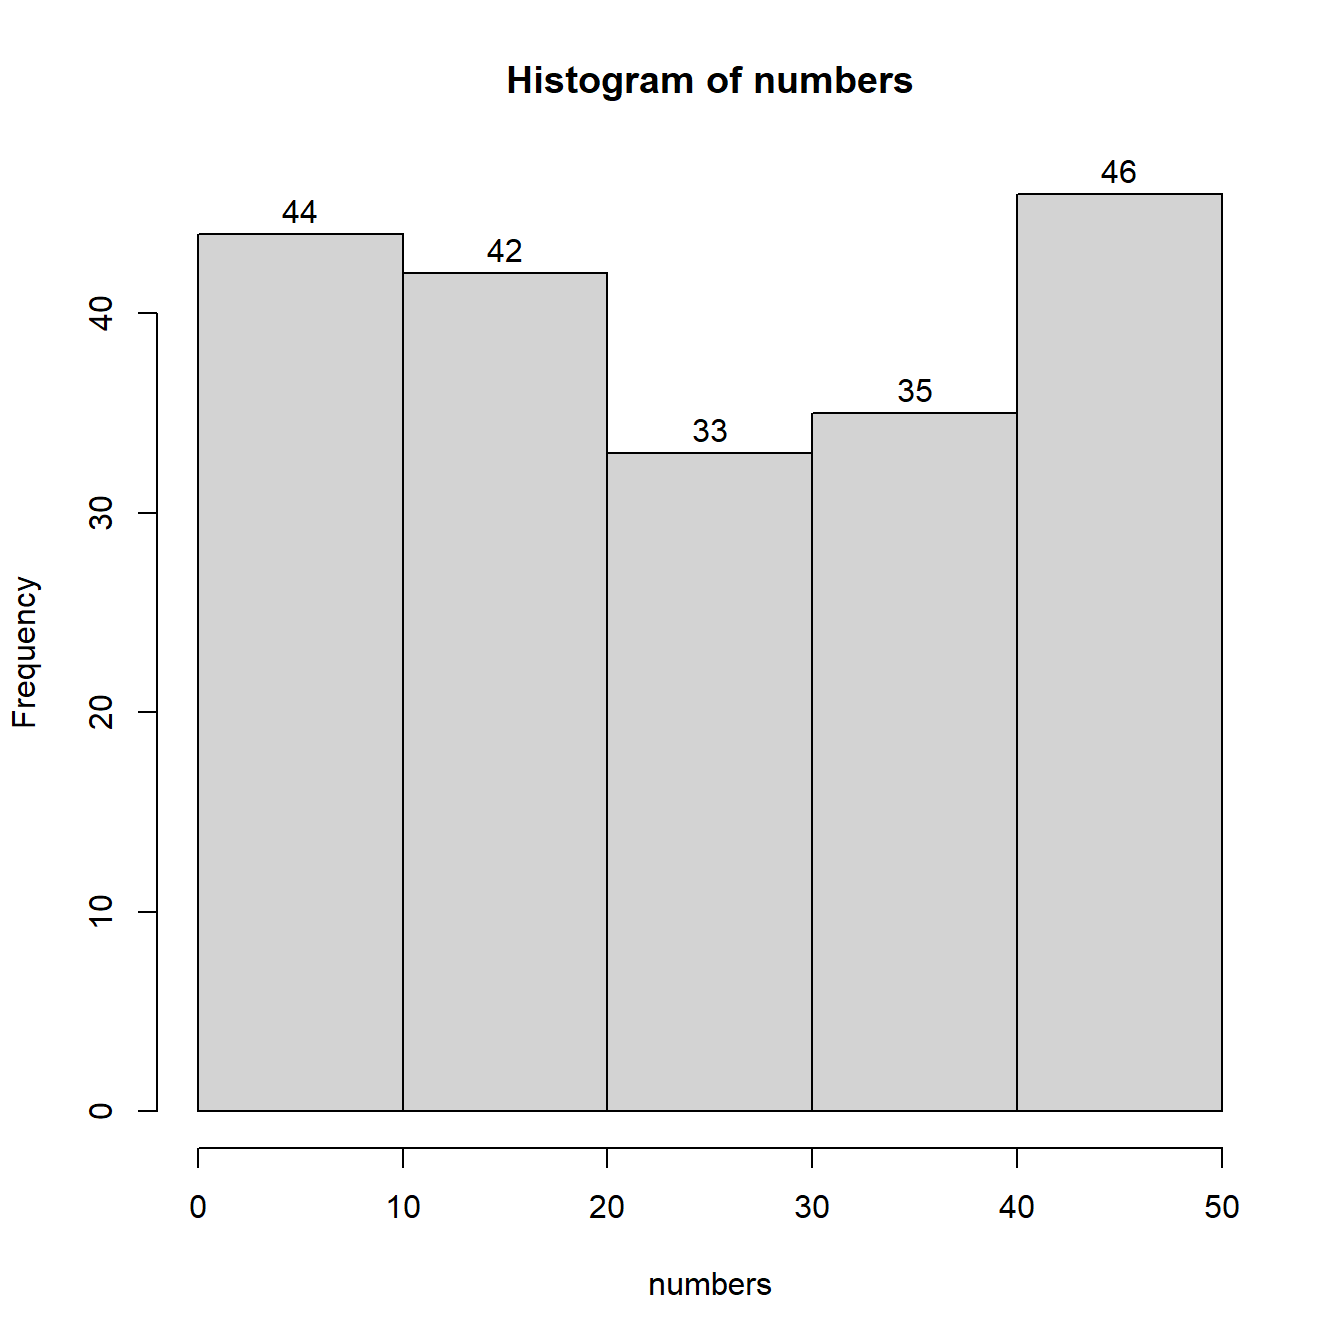
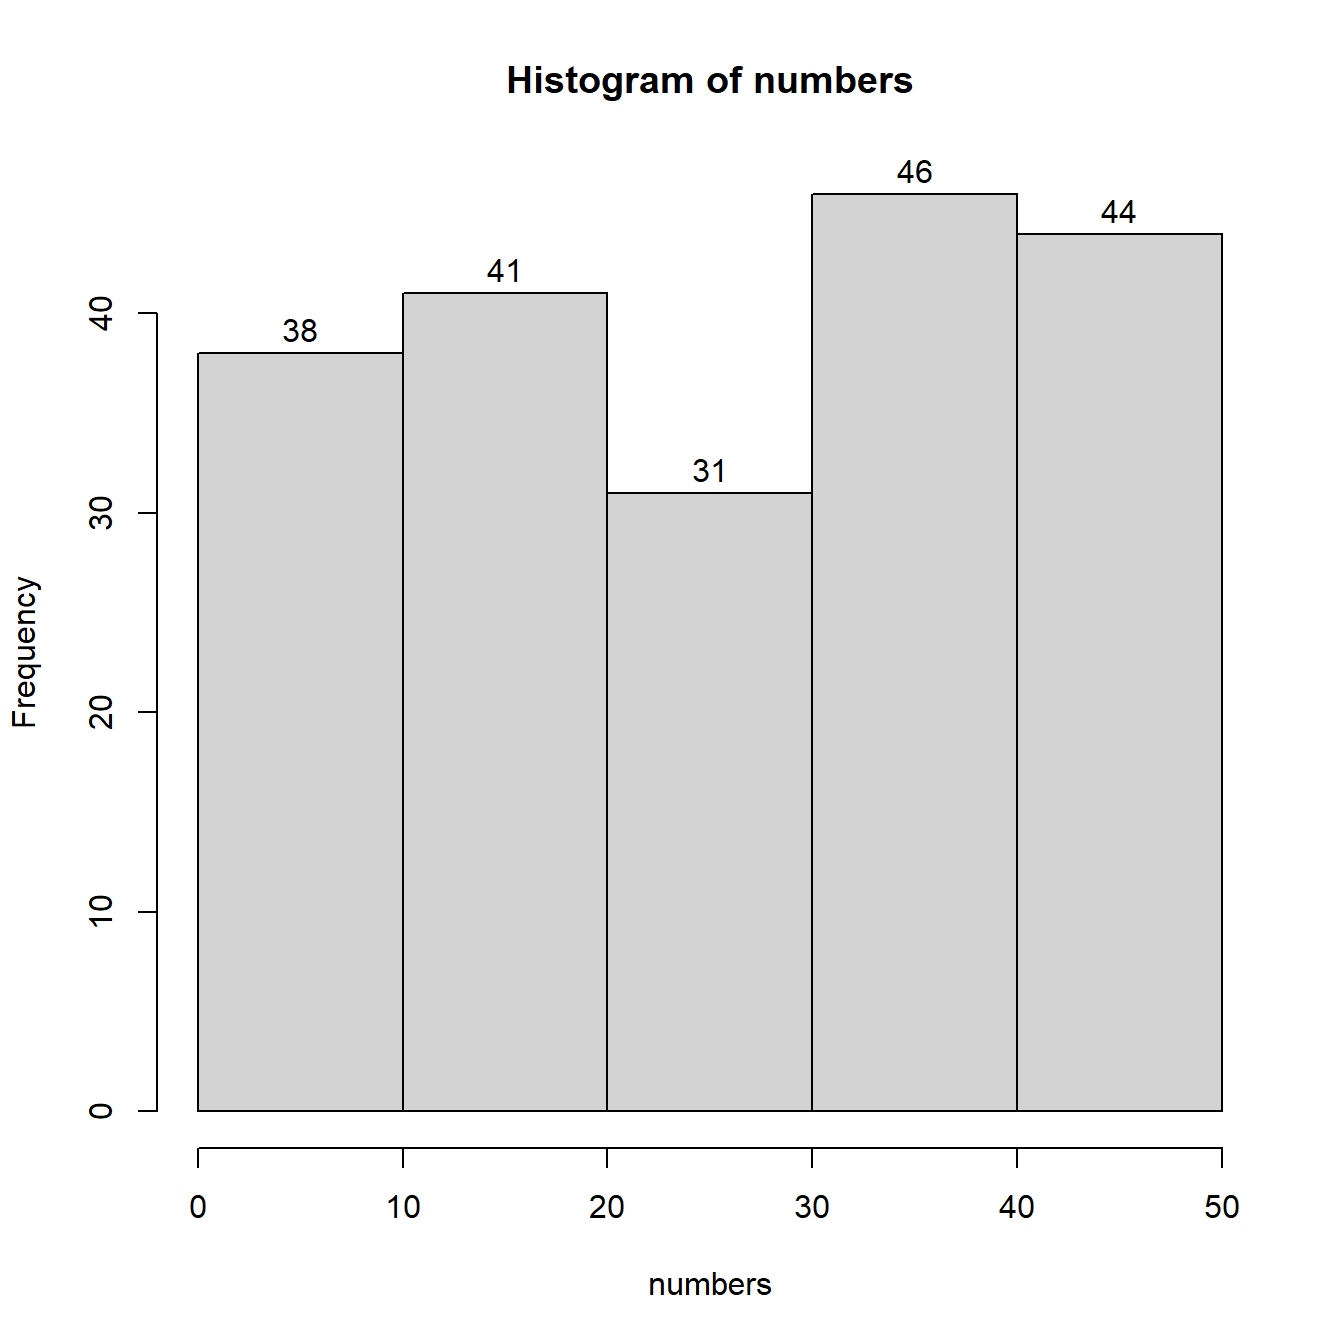
sessions updated

Changed region(s): [[0.5938, 0.125, 0.9062, 0.3125], [0.125, 0.1562, 0.4688, 0.2812], [0.4375, 0.3125, 0.625, 0.375]]

diff --git a/docs/session2.html b/docs/session2.html
@@ -24,7 +24,7 @@
 <meta name="author" content="Lazaros Gonidis" />
 
 
-<meta name="date" content="2020-10-20" />
+<meta name="date" content="2020-10-21" />
 
   <meta name="viewport" content="width=device-width, initial-scale=1" />
   <meta name="apple-mobile-web-app-capable" content="yes" />
@@ -171,12 +171,21 @@ code span.wa { color: #60a0b0; font-weight: bold; font-style: italic; } /* Warni
 <li class="chapter" data-level="4.7" data-path="session3.html"><a href="session3.html#additional-exercises-spoiler-alert-if-you-get-stuck-the-answers-are-at-the-end-of-the-pdf"><i class="fa fa-check"></i><b>4.7</b> Additional Exercises (spoiler alert: if you get stuck the answers are at the end of the pdf)</a></li>
 <li class="chapter" data-level="4.8" data-path="session3.html"><a href="session3.html#solutions-spoiler-alert"><i class="fa fa-check"></i><b>4.8</b> Solutions: SPOILER ALERT</a></li>
 </ul></li>
-<li class="chapter" data-level="5" data-path="applications.html"><a href="applications.html"><i class="fa fa-check"></i><b>5</b> Applications</a>
+<li class="chapter" data-level="5" data-path="session4.html"><a href="session4.html"><i class="fa fa-check"></i><b>5</b> Tidyverse 1</a>
 <ul>
-<li class="chapter" data-level="5.1" data-path="applications.html"><a href="applications.html#example-one"><i class="fa fa-check"></i><b>5.1</b> Example one</a></li>
-<li class="chapter" data-level="5.2" data-path="applications.html"><a href="applications.html#example-two"><i class="fa fa-check"></i><b>5.2</b> Example two</a></li>
+<li class="chapter" data-level="5.1" data-path="session4.html"><a href="session4.html#thinking-ahead"><i class="fa fa-check"></i><b>5.1</b> Thinking ahead</a></li>
+<li class="chapter" data-level="5.2" data-path="session4.html"><a href="session4.html#learning-objectives-3"><i class="fa fa-check"></i><b>5.2</b> Learning objectives</a></li>
+<li class="chapter" data-level="5.3" data-path="session4.html"><a href="session4.html#our-first-data-file"><i class="fa fa-check"></i><b>5.3</b> Our first data file</a></li>
+<li class="chapter" data-level="5.4" data-path="session4.html"><a href="session4.html#correcting-variable-types"><i class="fa fa-check"></i><b>5.4</b> Correcting Variable Types</a></li>
+<li class="chapter" data-level="5.5" data-path="session4.html"><a href="session4.html#recoding"><i class="fa fa-check"></i><b>5.5</b> Recoding</a></li>
+<li class="chapter" data-level="5.6" data-path="session4.html"><a href="session4.html#exercise-9"><i class="fa fa-check"></i><b>5.6</b> Exercise 9</a></li>
 </ul></li>
-<li class="chapter" data-level="6" data-path="final-words.html"><a href="final-words.html"><i class="fa fa-check"></i><b>6</b> Final Words</a></li>
+<li class="chapter" data-level="6" data-path="session5.html"><a href="session5.html"><i class="fa fa-check"></i><b>6</b> Tidyverse 2</a>
+<ul>
+<li class="chapter" data-level="6.1" data-path="session5.html"><a href="session5.html#reflecting-on-the-last-session"><i class="fa fa-check"></i><b>6.1</b> Reflecting on the last session</a></li>
+<li class="chapter" data-level="6.2" data-path="session5.html"><a href="session5.html#pipe-operator"><i class="fa fa-check"></i><b>6.2</b> Pipe Operator %&lt;%</a></li>
+<li class="chapter" data-level="6.3" data-path="session5.html"><a href="session5.html#exercise-10"><i class="fa fa-check"></i><b>6.3</b> Exercise 10</a></li>
+</ul></li>
 <li class="chapter" data-level="" data-path="references.html"><a href="references.html"><i class="fa fa-check"></i>References</a></li>
 <li class="divider"></li>
 <li><a href="https://github.com/rstudio/bookdown" target="blank">Published with bookdown</a></li>
@@ -269,7 +278,7 @@ We will also start working on some basic concepts of statistical exploration of 
 <span id="cb7-3"><a href="session2.html#cb7-3"></a>numbers &lt;-<span class="st"> </span><span class="kw">sample.int</span>(<span class="dv">10</span>, <span class="dv">5</span>, <span class="dt">replace =</span> <span class="ot">TRUE</span>)</span>
 <span id="cb7-4"><a href="session2.html#cb7-4"></a></span>
 <span id="cb7-5"><a href="session2.html#cb7-5"></a>numbers</span></code></pre></div>
-<p>[1] 4 4 7 8 6</p>
+<p>[1] 3 3 6 5 10</p>
 <p>As mentioned above, I used a function called <strong>sample.int()</strong>. A <strong>function</strong> in R, is a mechanism that can perform a task. In this case our function can select an integer number randomly. A function also includes two brackets (). Within these brackets we can specify our own arguments in order to be clear what we want R to do for us when this function is used.</p>
 <p>Notice the number 10, this <strong>argument</strong> instructs our function that we want to pick randomly a number between 1 and 10.</p>
 <p>Notice the second number 5, this <strong>argument</strong> instructs our function to give 5 such numbers from 1 to 10.</p>
@@ -283,14 +292,14 @@ We will also start working on some basic concepts of statistical exploration of 
 <span id="cb8-3"><a href="session2.html#cb8-3"></a><span class="co"># See how my arguments have now changed.</span></span>
 <span id="cb8-4"><a href="session2.html#cb8-4"></a>numbers &lt;-<span class="st"> </span><span class="kw">sample.int</span>(<span class="dv">50</span>, <span class="dv">200</span>, <span class="dt">replace =</span> <span class="ot">TRUE</span>)</span>
 <span id="cb8-5"><a href="session2.html#cb8-5"></a>numbers</span></code></pre></div>
-<p>[1] 4 7 44 19 47 39 2 9 4 45 10 7 50 33 41 16 20 39 33 50 2 40 20 40 19
-[26] 42 30 39 4 32 43 19 5 12 41 1 12 37 48 32 42 32 40 19 19 9 13 22 14 47
-[51] 28 10 41 9 6 36 1 26 36 46 15 17 44 44 48 49 27 18 12 9 39 8 4 23 27
-[76] 36 39 30 5 42 12 28 22 2 37 13 43 14 8 9 19 7 45 20 15 24 43 15 30 19
-[101] 29 32 16 8 16 32 48 44 40 15 33 28 3 24 7 11 36 19 49 50 34 19 21 14 10
-[126] 1 2 31 32 27 1 3 50 6 24 12 27 30 30 1 36 17 18 11 44 27 11 37 13 42
-[151] 10 42 17 25 48 44 25 47 3 26 45 13 23 43 22 28 6 49 43 30 16 38 40 37 43
-[176] 4 49 46 36 20 25 49 9 8 12 42 39 29 47 4 39 33 22 46 10 7 6 46 22 44</p>
+<p>[1] 12 4 9 4 26 16 49 5 33 35 8 18 39 26 50 33 12 20 37 37 33 8 49 39 45
+[26] 14 34 42 16 14 38 46 6 36 28 14 42 13 41 29 40 11 40 17 5 29 28 37 5 39
+[51] 40 6 31 29 3 24 21 35 26 42 15 33 12 45 14 2 50 1 11 34 50 7 25 18 6
+[76] 50 1 39 9 38 11 25 21 23 5 5 4 10 29 38 37 49 23 50 47 18 19 16 14 26
+[101] 41 17 20 5 10 39 36 7 26 47 45 32 21 45 49 11 32 5 26 44 15 36 48 48 41
+[126] 20 29 12 32 19 23 50 22 35 33 6 35 12 28 4 37 10 5 43 47 29 49 33 44 38
+[151] 19 24 46 14 8 3 45 36 42 32 28 14 31 16 12 40 14 47 14 48 19 40 4 49 48
+[176] 21 2 37 24 33 48 50 37 20 45 33 5 10 2 49 50 19 43 45 21 27 33 2 15 6</p>
 <div class="sourceCode" id="cb9"><pre class="sourceCode r"><code class="sourceCode r"><span id="cb9-1"><a href="session2.html#cb9-1"></a><span class="co"># Now we will call a new function to help us group our data.</span></span>
 <span id="cb9-2"><a href="session2.html#cb9-2"></a><span class="co"># First put them in 5 groups. The numbers in c() declare the numbers that define each group.</span></span>
 <span id="cb9-3"><a href="session2.html#cb9-3"></a></span>
@@ -299,7 +308,7 @@ We will also start working on some basic concepts of statistical exploration of 
 <span id="cb9-6"><a href="session2.html#cb9-6"></a><span class="co"># Now I can produce my frequency table using another function</span></span>
 <span id="cb9-7"><a href="session2.html#cb9-7"></a><span class="kw">summary</span>(groups)</span></code></pre></div>
 <p>(0,10] (10,20] (20,30] (30,40] (40,50]
-44 42 33 35 46</p>
+38 41 31 46 44</p>
 <div class="sourceCode" id="cb10"><pre class="sourceCode r"><code class="sourceCode r"><span id="cb10-1"><a href="session2.html#cb10-1"></a><span class="co"># We will now use a new function called hist that creates histograms.</span></span>
 <span id="cb10-2"><a href="session2.html#cb10-2"></a><span class="co"># Note that this function has to work with the original numbers</span></span>
 <span id="cb10-3"><a href="session2.html#cb10-3"></a><span class="co"># and not with the groups.</span></span>

diff --git a/docs/index.html b/docs/index.html
@@ -24,7 +24,7 @@
 <meta name="author" content="Lazaros Gonidis" />
 
 
-<meta name="date" content="2020-10-20" />
+<meta name="date" content="2020-10-21" />
 
   <meta name="viewport" content="width=device-width, initial-scale=1" />
   <meta name="apple-mobile-web-app-capable" content="yes" />
@@ -108,12 +108,21 @@
 <li class="chapter" data-level="4.7" data-path="session3.html"><a href="session3.html#additional-exercises-spoiler-alert-if-you-get-stuck-the-answers-are-at-the-end-of-the-pdf"><i class="fa fa-check"></i><b>4.7</b> Additional Exercises (spoiler alert: if you get stuck the answers are at the end of the pdf)</a></li>
 <li class="chapter" data-level="4.8" data-path="session3.html"><a href="session3.html#solutions-spoiler-alert"><i class="fa fa-check"></i><b>4.8</b> Solutions: SPOILER ALERT</a></li>
 </ul></li>
-<li class="chapter" data-level="5" data-path="applications.html"><a href="applications.html"><i class="fa fa-check"></i><b>5</b> Applications</a>
+<li class="chapter" data-level="5" data-path="session4.html"><a href="session4.html"><i class="fa fa-check"></i><b>5</b> Tidyverse 1</a>
 <ul>
-<li class="chapter" data-level="5.1" data-path="applications.html"><a href="applications.html#example-one"><i class="fa fa-check"></i><b>5.1</b> Example one</a></li>
-<li class="chapter" data-level="5.2" data-path="applications.html"><a href="applications.html#example-two"><i class="fa fa-check"></i><b>5.2</b> Example two</a></li>
+<li class="chapter" data-level="5.1" data-path="session4.html"><a href="session4.html#thinking-ahead"><i class="fa fa-check"></i><b>5.1</b> Thinking ahead</a></li>
+<li class="chapter" data-level="5.2" data-path="session4.html"><a href="session4.html#learning-objectives-3"><i class="fa fa-check"></i><b>5.2</b> Learning objectives</a></li>
+<li class="chapter" data-level="5.3" data-path="session4.html"><a href="session4.html#our-first-data-file"><i class="fa fa-check"></i><b>5.3</b> Our first data file</a></li>
+<li class="chapter" data-level="5.4" data-path="session4.html"><a href="session4.html#correcting-variable-types"><i class="fa fa-check"></i><b>5.4</b> Correcting Variable Types</a></li>
+<li class="chapter" data-level="5.5" data-path="session4.html"><a href="session4.html#recoding"><i class="fa fa-check"></i><b>5.5</b> Recoding</a></li>
+<li class="chapter" data-level="5.6" data-path="session4.html"><a href="session4.html#exercise-9"><i class="fa fa-check"></i><b>5.6</b> Exercise 9</a></li>
 </ul></li>
-<li class="chapter" data-level="6" data-path="final-words.html"><a href="final-words.html"><i class="fa fa-check"></i><b>6</b> Final Words</a></li>
+<li class="chapter" data-level="6" data-path="session5.html"><a href="session5.html"><i class="fa fa-check"></i><b>6</b> Tidyverse 2</a>
+<ul>
+<li class="chapter" data-level="6.1" data-path="session5.html"><a href="session5.html#reflecting-on-the-last-session"><i class="fa fa-check"></i><b>6.1</b> Reflecting on the last session</a></li>
+<li class="chapter" data-level="6.2" data-path="session5.html"><a href="session5.html#pipe-operator"><i class="fa fa-check"></i><b>6.2</b> Pipe Operator %&lt;%</a></li>
+<li class="chapter" data-level="6.3" data-path="session5.html"><a href="session5.html#exercise-10"><i class="fa fa-check"></i><b>6.3</b> Exercise 10</a></li>
+</ul></li>
 <li class="chapter" data-level="" data-path="references.html"><a href="references.html"><i class="fa fa-check"></i>References</a></li>
 <li class="divider"></li>
 <li><a href="https://github.com/rstudio/bookdown" target="blank">Published with bookdown</a></li>
@@ -138,7 +147,7 @@
 <div id="header">
 <h1 class="title">Kent R training</h1>
 <p class="author"><em>Lazaros Gonidis</em></p>
-<p class="date"><em>2020-10-20</em></p>
+<p class="date"><em>2020-10-21</em></p>
 </div>
 <div id="prelude" class="section level1" number="1">
 <h1><span class="header-section-number">Session 1</span> Prelude</h1>

diff --git a/docs/introduction.html b/docs/introduction.html
@@ -24,7 +24,7 @@
 <meta name="author" content="Lazaros Gonidis" />
 
 
-<meta name="date" content="2020-10-20" />
+<meta name="date" content="2020-10-21" />
 
   <meta name="viewport" content="width=device-width, initial-scale=1" />
   <meta name="apple-mobile-web-app-capable" content="yes" />
@@ -171,12 +171,21 @@ code span.wa { color: #60a0b0; font-weight: bold; font-style: italic; } /* Warni
 <li class="chapter" data-level="4.7" data-path="session3.html"><a href="session3.html#additional-exercises-spoiler-alert-if-you-get-stuck-the-answers-are-at-the-end-of-the-pdf"><i class="fa fa-check"></i><b>4.7</b> Additional Exercises (spoiler alert: if you get stuck the answers are at the end of the pdf)</a></li>
 <li class="chapter" data-level="4.8" data-path="session3.html"><a href="session3.html#solutions-spoiler-alert"><i class="fa fa-check"></i><b>4.8</b> Solutions: SPOILER ALERT</a></li>
 </ul></li>
-<li class="chapter" data-level="5" data-path="applications.html"><a href="applications.html"><i class="fa fa-check"></i><b>5</b> Applications</a>
+<li class="chapter" data-level="5" data-path="session4.html"><a href="session4.html"><i class="fa fa-check"></i><b>5</b> Tidyverse 1</a>
 <ul>
-<li class="chapter" data-level="5.1" data-path="applications.html"><a href="applications.html#example-one"><i class="fa fa-check"></i><b>5.1</b> Example one</a></li>
-<li class="chapter" data-level="5.2" data-path="applications.html"><a href="applications.html#example-two"><i class="fa fa-check"></i><b>5.2</b> Example two</a></li>
+<li class="chapter" data-level="5.1" data-path="session4.html"><a href="session4.html#thinking-ahead"><i class="fa fa-check"></i><b>5.1</b> Thinking ahead</a></li>
+<li class="chapter" data-level="5.2" data-path="session4.html"><a href="session4.html#learning-objectives-3"><i class="fa fa-check"></i><b>5.2</b> Learning objectives</a></li>
+<li class="chapter" data-level="5.3" data-path="session4.html"><a href="session4.html#our-first-data-file"><i class="fa fa-check"></i><b>5.3</b> Our first data file</a></li>
+<li class="chapter" data-level="5.4" data-path="session4.html"><a href="session4.html#correcting-variable-types"><i class="fa fa-check"></i><b>5.4</b> Correcting Variable Types</a></li>
+<li class="chapter" data-level="5.5" data-path="session4.html"><a href="session4.html#recoding"><i class="fa fa-check"></i><b>5.5</b> Recoding</a></li>
+<li class="chapter" data-level="5.6" data-path="session4.html"><a href="session4.html#exercise-9"><i class="fa fa-check"></i><b>5.6</b> Exercise 9</a></li>
 </ul></li>
-<li class="chapter" data-level="6" data-path="final-words.html"><a href="final-words.html"><i class="fa fa-check"></i><b>6</b> Final Words</a></li>
+<li class="chapter" data-level="6" data-path="session5.html"><a href="session5.html"><i class="fa fa-check"></i><b>6</b> Tidyverse 2</a>
+<ul>
+<li class="chapter" data-level="6.1" data-path="session5.html"><a href="session5.html#reflecting-on-the-last-session"><i class="fa fa-check"></i><b>6.1</b> Reflecting on the last session</a></li>
+<li class="chapter" data-level="6.2" data-path="session5.html"><a href="session5.html#pipe-operator"><i class="fa fa-check"></i><b>6.2</b> Pipe Operator %&lt;%</a></li>
+<li class="chapter" data-level="6.3" data-path="session5.html"><a href="session5.html#exercise-10"><i class="fa fa-check"></i><b>6.3</b> Exercise 10</a></li>
+</ul></li>
 <li class="chapter" data-level="" data-path="references.html"><a href="references.html"><i class="fa fa-check"></i>References</a></li>
 <li class="divider"></li>
 <li><a href="https://github.com/rstudio/bookdown" target="blank">Published with bookdown</a></li>

diff --git a/docs/session3.html b/docs/session3.html
@@ -24,7 +24,7 @@
 <meta name="author" content="Lazaros Gonidis" />
 
 
-<meta name="date" content="2020-10-20" />
+<meta name="date" content="2020-10-21" />
 
   <meta name="viewport" content="width=device-width, initial-scale=1" />
   <meta name="apple-mobile-web-app-capable" content="yes" />
@@ -176,8 +176,16 @@ code span.wa { color: #60a0b0; font-weight: bold; font-style: italic; } /* Warni
 <li class="chapter" data-level="5.1" data-path="session4.html"><a href="session4.html#thinking-ahead"><i class="fa fa-check"></i><b>5.1</b> Thinking ahead</a></li>
 <li class="chapter" data-level="5.2" data-path="session4.html"><a href="session4.html#learning-objectives-3"><i class="fa fa-check"></i><b>5.2</b> Learning objectives</a></li>
 <li class="chapter" data-level="5.3" data-path="session4.html"><a href="session4.html#our-first-data-file"><i class="fa fa-check"></i><b>5.3</b> Our first data file</a></li>
+<li class="chapter" data-level="5.4" data-path="session4.html"><a href="session4.html#correcting-variable-types"><i class="fa fa-check"></i><b>5.4</b> Correcting Variable Types</a></li>
+<li class="chapter" data-level="5.5" data-path="session4.html"><a href="session4.html#recoding"><i class="fa fa-check"></i><b>5.5</b> Recoding</a></li>
+<li class="chapter" data-level="5.6" data-path="session4.html"><a href="session4.html#exercise-9"><i class="fa fa-check"></i><b>5.6</b> Exercise 9</a></li>
 </ul></li>
-<li class="chapter" data-level="6" data-path="final-words.html"><a href="final-words.html"><i class="fa fa-check"></i><b>6</b> Final Words</a></li>
+<li class="chapter" data-level="6" data-path="session5.html"><a href="session5.html"><i class="fa fa-check"></i><b>6</b> Tidyverse 2</a>
+<ul>
+<li class="chapter" data-level="6.1" data-path="session5.html"><a href="session5.html#reflecting-on-the-last-session"><i class="fa fa-check"></i><b>6.1</b> Reflecting on the last session</a></li>
+<li class="chapter" data-level="6.2" data-path="session5.html"><a href="session5.html#pipe-operator"><i class="fa fa-check"></i><b>6.2</b> Pipe Operator %&lt;%</a></li>
+<li class="chapter" data-level="6.3" data-path="session5.html"><a href="session5.html#exercise-10"><i class="fa fa-check"></i><b>6.3</b> Exercise 10</a></li>
+</ul></li>
 <li class="chapter" data-level="" data-path="references.html"><a href="references.html"><i class="fa fa-check"></i>References</a></li>
 <li class="divider"></li>
 <li><a href="https://github.com/rstudio/bookdown" target="blank">Published with bookdown</a></li>

diff --git a/docs/session4.html b/docs/session4.html
@@ -184,6 +184,7 @@ code span.wa { color: #60a0b0; font-weight: bold; font-style: italic; } /* Warni
 <ul>
 <li class="chapter" data-level="6.1" data-path="session5.html"><a href="session5.html#reflecting-on-the-last-session"><i class="fa fa-check"></i><b>6.1</b> Reflecting on the last session</a></li>
 <li class="chapter" data-level="6.2" data-path="session5.html"><a href="session5.html#pipe-operator"><i class="fa fa-check"></i><b>6.2</b> Pipe Operator %&lt;%</a></li>
+<li class="chapter" data-level="6.3" data-path="session5.html"><a href="session5.html#exercise-10"><i class="fa fa-check"></i><b>6.3</b> Exercise 10</a></li>
 </ul></li>
 <li class="chapter" data-level="" data-path="references.html"><a href="references.html"><i class="fa fa-check"></i>References</a></li>
 <li class="divider"></li>
